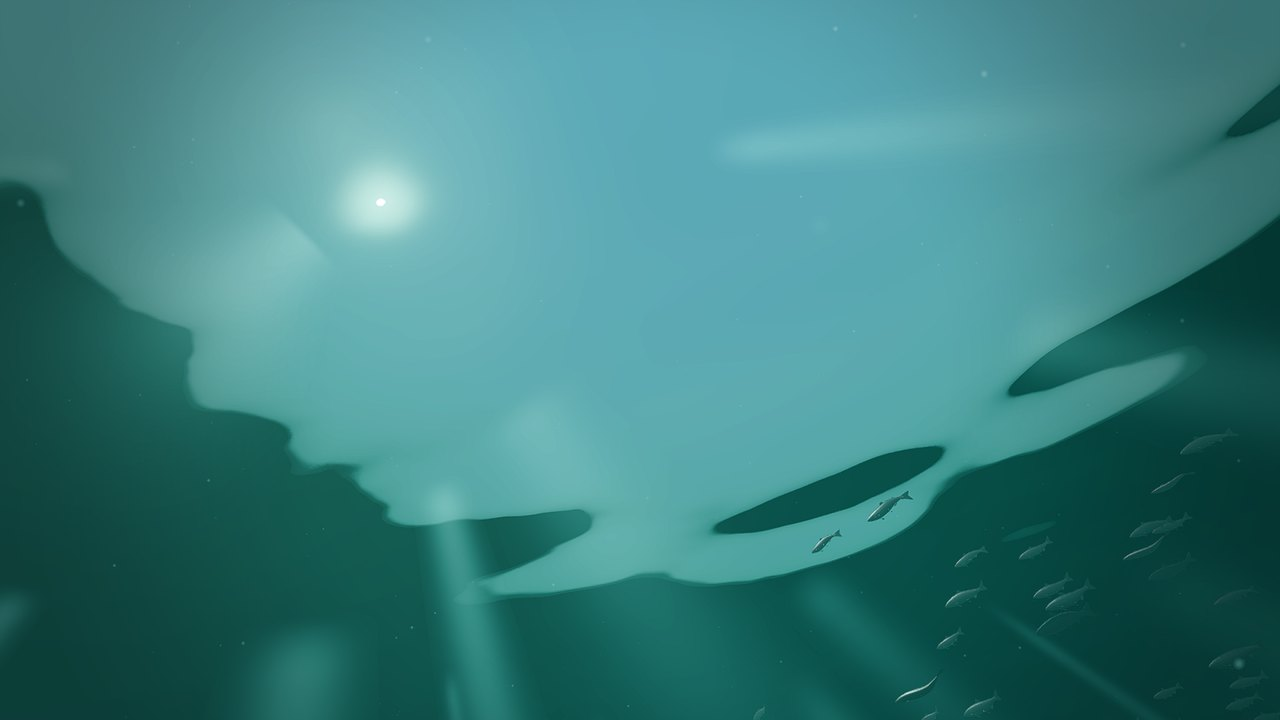
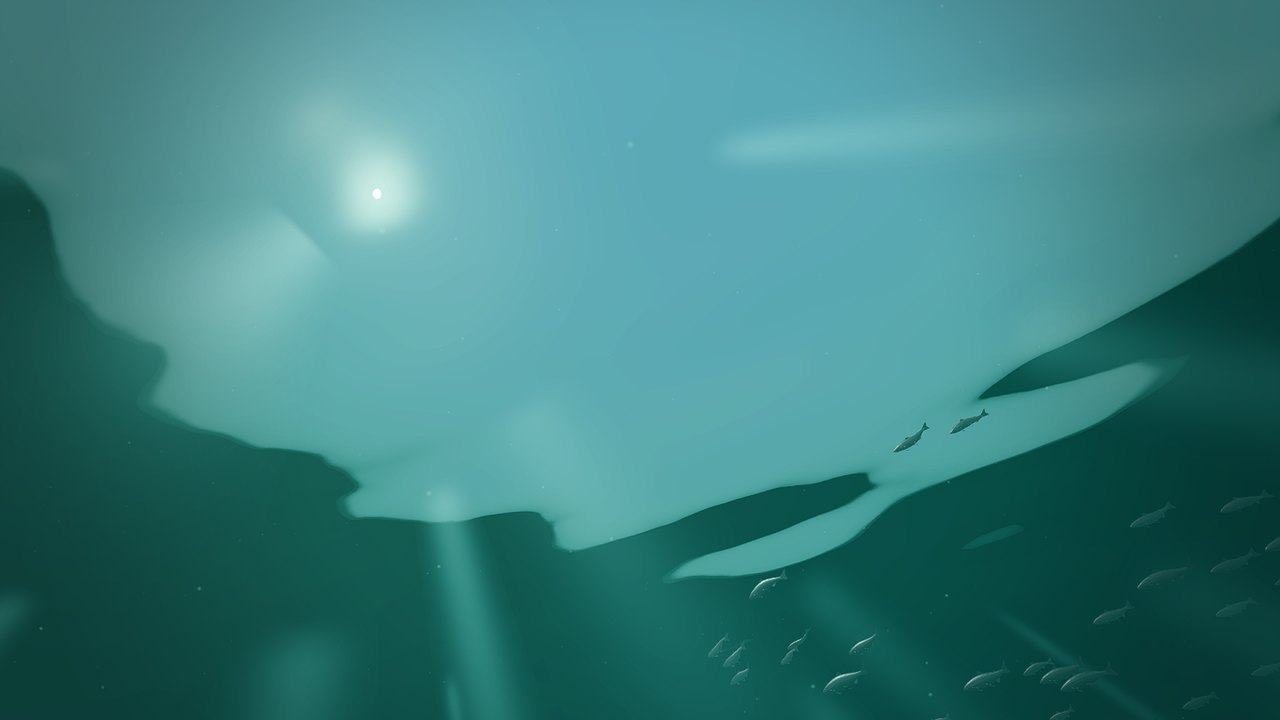
run: wave4b G3-04 the caustics' motion measured frozen — the clean net's shimmer 0.0039, the fouled net's 0.0086, held off 0
- EnvironmentDirector.stage_caustic_clock: the harness holds the caustics'
  clock at a time. UnderwaterShots measures the net in one freeze: the net's
  mask, the fouling, and 0.5 s on the caustics' clock on the clean net, held
  off and on the fully fouled net (bars 0.002 / 0.0005 / 0.005).
- Why: the first measurement (two real-time frames 0.5 s apart, 0.020
  against 0.005 in d2d7ee6's message) caught the scene catching up after
  the frozen mask frames (a later real-time pair in the same run: 0.006) and
  failed after the farm shot (0.009 against 0.009); with time running the
  floating pen also leaves the mask taken before. Frozen, every run reads the
  clean net 0.0039 (threads of 1.6 % albedo: p99 4 levels), the fouled net
  0.0086 (p99 8), held off 0.0000.
- Mutation: the net shader without its caustics' emission fails 11d (0.0000).
- UnderwaterChecks' staging check also holds the clock (stronger in place).
- Gates on this tree: UI flow 1825 / 0 (load 8-12), pytest 878 / 1 skipped,
  validate_scenes 84 clean; no C# change since 023154e (builds, dotnet test
  and the golden traces there: 27/27 identical).
- Evidence regenerated from a --only=fjord_farm,underwater run (the order
  that had failed): docs/run/evidence/g3_04/, its report, the corrected
  numbers in README, FJORD_RENDERER and RUN_LOG §7.

diff --git a/docs/RUN_LOG.md b/docs/RUN_LOG.md
@@ -589,7 +589,8 @@ deliverable, message format: `run: <wave> <item> — <one-line outcome>`.
 | 2026-10-21 | G3-04 the fouling reaches the nets in steps of 0.05 and through nets found once (`FarmSite.FOULING_STEP`, `PenCage._nets()`) | Measured, the UI side of a 30× day (UiFlowTests' check run alone, A/B in one time window): every day's write cost 1.0 ms p50 (4.13-4.16 against 3.06-3.19 ms with the per-day additions off); stepped and cached the additions cost 44 µs a day (3.02 ms p50). The full suite's run under load 8-15 had failed that check (p95 39.0 > 28.1 ms) | Yes |
 | 2026-10-21 | G3-04 camera: the UNDERWATER zoom dives into the pen within 120 m of the focus (`UnderwaterView.dive_anchor` → `FjordCamera.underwater_anchor`), 5 m down, 0.72 of the net's radius out (18 m of 24.95), looking 45° off the pen's centre and 16° up, 64° field; the dive hovers 7 m over its place, then goes straight down looking down; Q/E turn it round the pen, the up/down keys tilt it (±60°). The framing was tried at 0.55/28° (fish only), 0.84/62° (empty water) and 0.72/72°, 55° before 45° | The school, the net's ropes and Snell's window in one calm frame | Yes |
 | 2026-10-21 | G3-04 shots: 11 (the first stocked pen, noon, clear), 11c (45° up), 11b (a QA bloom of 0.8), 11d (2.6 m from the net at 4 m, facing away from the sun) and 11e (11d fouled), checked by `UnderwaterShots.gd` (depth, the window over the TIR ring, the bloom's fog, fish, the caustics' motion against a twin with them held off, the fouling) with a JSON report. 11d faces away from the sun: the sun-side wall lies in the collar's and the walkway's shadow down to ~5 m at noon (switching every shadow caster off lit the threads from 0.188 to 0.220) | The net shot must show the net in the sun its caustics come from | Yes |
-| 2026-10-21 | **G3-04 tests and gates** (add-only, nothing replaced): xUnit +10 (`WaterClarityTests`); UiFlowTests +31 (`UnderwaterChecks.gd`; `MIN_CHECKS` 1794 → 1825); pytest +6 (`tests/test_underwater.py`) and the single-writer lists of `test_environment_director.py` extended. Mutation runs: UiFlow 9 mutations in two runs + the fouling step (each fails its check), pytest 7 (each fails its test). Gates on `023154e`: builds 0 errors (53 / 16 warnings); `dotnet test` LakskongenSim.Tests 2014 passed / 3 skipped / 0 failed and the other projects green; pytest 878 passed / 1 skipped; validate_scenes 84 scenes clean; UI flow 1825 checks / 0 failures (load 6-15); golden traces 27 / 27 identical against the merge base `77e4d1d` (`docs/run/evidence/g3_04_golden_diff.md`); the harness's `--only=underwater` content checks pass (`docs/run/evidence/g3_04/`) | The gate contract | — |
+| 2026-10-21 | G3-04 correction: 11d's caustic check is measured with time stopped (`EnvironmentDirector.stage_caustic_clock`: 0.5 s on the caustics' clock; the net's mask, the clean, held-off and fouled pairs in one freeze). The first version (real-time frames 0.5 s apart, `d2d7ee6`'s message: 0.020 against 0.005) measured the scene catching up after the frozen mask frames (a later real-time pair in the same run read 0.006) and failed after the farm shot (0.009 against 0.009); with time running the floating pen also leaves the mask taken before. Frozen: the clean net 0.0039 (its threads' albedo is 1.6 %: p99 4 levels of 255), the fouled net 0.0086 (p99 8), held off 0.0000, the same in every run; bars 0.002 / 0.005 / 0.0005 | A measurement the frame pacing and the waves cannot move; the clean, dark net's shimmer is stated as the faint one it is | Yes |
+| 2026-10-21 | **G3-04 tests and gates** (add-only, nothing replaced): xUnit +10 (`WaterClarityTests`); UiFlowTests +31 (`UnderwaterChecks.gd`; `MIN_CHECKS` 1794 → 1825); pytest +6 (`tests/test_underwater.py`) and the single-writer lists of `test_environment_director.py` extended. Mutation runs: UiFlow 9 mutations in two runs + the fouling step (each fails its check), pytest 7 (each fails its test), the harness's 11d check against a net shader without its caustics (fails: 0.0000). Gates on `023154e`: builds 0 errors (53 / 16 warnings); `dotnet test` LakskongenSim.Tests 2014 passed / 3 skipped / 0 failed and the other projects green; pytest 878 passed / 1 skipped; validate_scenes 84 scenes clean; UI flow 1825 checks / 0 failures (load 6-15); golden traces 27 / 27 identical against the merge base `77e4d1d` (`docs/run/evidence/g3_04_golden_diff.md`); the harness's `--only=underwater` content checks pass (`docs/run/evidence/g3_04/`) | The gate contract | — |
 
 ## 8. Blocked / dead ends / disputes
 

diff --git a/docs/run/evidence/g3_04/README.md b/docs/run/evidence/g3_04/README.md
@@ -8,13 +8,13 @@ content checks passed (`"failures": []`).
 | Frame | What it shows |
 |---|---|
 | `g3_04_sheet.jpg` | The old 11 (a blue overlay over a net) against the five new frames |
-| `11_fjord_underwater.jpg` | 5.0 m down, 17.96 m from the pen's centre (net 24.95 m): Snell's window at the top, shafts, snow, the school (3.0 % of the frame), the net's ropes |
-| `11c_underwater_window.jpg` | Tilted 45° up: the window 2.38× as bright as the surface outside it (TIR ring rgb 0.056, 0.303, 0.279: the water's own tint), the sun and its glow, a cloud through the window |
+| `11_fjord_underwater.jpg` | 5.0 m down, 17.96 m from the pen's centre (net 24.95 m): Snell's window at the top, shafts, snow, the school (3.3 % of the frame), the net's ropes |
+| `11c_underwater_window.jpg` | Tilted 45° up: the window 2.42× as bright as the surface outside it (TIR ring rgb 0.054, 0.299, 0.275: the water's own tint), the sun and its glow, a cloud through the window |
 | `11b_underwater_bloom.jpg` | A QA bloom of 0.8 at the site: 2.35 m water (fog 0.839 /m against the clear 11.53 m, 0.269 /m), olive-green |
 | `11d_underwater_net.jpg` | 2.6 m from the net at 4 m, the sun behind the camera: the net, the shafts converging below |
 | `11e_underwater_net_fouled.jpg` | 11d with the site's nets fully fouled (41 % of the frame changes) |
 | `11e_fouling_crop.jpg` | The same 640 x 360 crop of 11d and 11e at 1:1: ragged olive growth closing the mesh |
-| `11d_caustics_motion.jpg` | The net with the fish, shafts and snow held off; |dL| × 10 over 0.5 s with the caustics (mean 0.0205 over the net's pixels) and held off (0.0050) |
+| `11d_caustics_motion.jpg` | Time stopped, the fish, shafts and snow held off: the net; |dL| × 10 for 0.5 s on the caustics' clock on the clean net (mean 0.0039 over the net's pixels), on the fouled net (0.0086) and with the caustics held off (0) |
 | `11_before.jpg`, `11_wip_first_light.jpg` | The base's 11; the first light of the new composition (earlier commit) |
 
 ## The checks (UnderwaterShots.gd)
@@ -22,11 +22,18 @@ content checks passed (`"failures": []`).
 | Check | Bar | Measured |
 |---|---|---|
 | 11: the camera 3-8 m down inside the net | depth 3-8, < 24.95 m from the centre | 5.0 m, 17.96 m |
-| 11c: Snell's window over the TIR ring, tinted | ≥ 1.8×, green over red | 2.38×, g 0.303 > r 0.056 |
+| 11c: Snell's window over the TIR ring, tinted | ≥ 1.8×, green over red | 2.42× (2.38 in earlier runs), g 0.299 > r 0.054 |
 | 11b: the bloom's fog over the clear water's | shorter visibility, denser fog | 2.35 m / 0.839 against 11.53 m / 0.269 |
-| 11: fish | ≥ 1 % of the frame | 2.97 % |
-| 11d: the caustics animate on the net | ≥ 0.004 and ≥ 2× the twin's | 0.0205 against 0.0050 (4.1×; earlier runs 0.0202/0.0053, 0.0207/0.0044) |
-| 11e: the fouling uniform reads | ≥ 10 % of the frame | 40.8 % |
+| 11: fish | ≥ 1 % of the frame | 3.31 % (2.97-3.29 in earlier runs) |
+| 11d: the caustics animate on the net (time stopped, 0.5 s on their clock) | clean ≥ 0.002, fouled ≥ 0.005, held off ≤ 0.0005 | clean 0.0039 (p99 4.2, max 12 levels on 18 % of the frame), fouled 0.0086 (p99 8.2, max 30 on 32 %), held off 0.0000; the same in three runs |
+| 11e: the fouling uniform reads | ≥ 10 % of the frame | 40.9 % |
+
+The first version measured two real-time frames 0.5 s apart against a twin
+taken later: 0.020 against 0.005. That was an artifact: the pair came right
+after the frozen mask frames and caught the scene catching up (a real-time
+pair later in the same run read 0.006); in another run, with the farm shot
+before it, it failed (0.009 against 0.009). Measured frozen, the caustics'
+own motion on the clean, dark net is the faint shimmer above.
 
 ## Cost (`perf_uw.md`)
 
@@ -57,6 +64,8 @@ writes in 74 days of the po3 game).
   their one writer, the caustics' loop rebuilt byte for byte, the caustics
   without a second 1/π, a fully fouled tile's coverage against the shader's
   constant). Seven mutations, each caught by its test.
+- The harness's 11d check against a net shader without its caustics'
+  emission: it fails (0.0000 clean, fouled and held off).
 - `tests/test_environment_director.py`: the single-writer lists take the
   underwater sky's and the underside's uniforms.
 - `src/LakskongenSim.Tests/Environment/WaterClarityTests.cs`: 10 xUnit tests.

diff --git a/docs/FJORD_RENDERER.md b/docs/FJORD_RENDERER.md
@@ -960,7 +960,7 @@ totally reflected outside 48.6 degrees (the water's own light below: the
 window's tinted ring), mixed by Fresnel taken on the air side, foam lighter,
 the water between dimming it at 0.45 of the fog's attenuation (a bright
 source keeps its shape through forward scattering). 11c measures the window
-at 2.38× the surface outside it, the TIR ring green over red.
+at 2.38-2.42× the surface outside it, the TIR ring green over red.
 
 **On the net, the collar and the fish** (`shaders/include/underwater_light.gdshaderinc`,
 globals `lk_uw*` in `project.godot`, written only by the director):
@@ -976,9 +976,11 @@ periodic field of short waves (|k| 2-11 a tile, RMS slope 0.075) and bins
 them on a plane 0.9 tiles down, 32 frames of 256², a 9 s loop, seamless in
 space and time (every wave turns whole cycles), texel = I / 4 (mean 1). The
 net's threads take the sun on their tops under water (the normal tilted 0.7
-toward up; above water unchanged). 11d holds the caustics' motion on the net
-against a twin with them held off (mean |dL| 0.020 against 0.004-0.005 in
-0.5 s).
+toward up; above water unchanged). With time stopped, 0.5 s on the
+caustics' clock moves the clean net's pixels by mean |dL| 0.0039 (its
+threads' albedo is 1.6 %: a faint shimmer, p99 4 and at most 12 levels of
+255 on 18 % of the frame), the fouled net's by 0.0086 (p99 8, at most 30
+levels), nothing with them held off.
 
 **Fouling.** `pen_net_shader`'s `net_fouling` instance uniform is the site's
 net condition from the sim (`FarmSite.net_fouling_for`: `net_integrity` 100
@@ -1006,7 +1008,7 @@ crosses the surface; it reads no screen texture.
 
 **The fish** under water show within 5 optical depths of the fog plus the
 school's ring (`FishSchool.underwater_reach_m`, 40 m in 11's water): the
-schools beyond it are not drawn. 11's school changes 3.0 % of the frame.
+schools beyond it are not drawn. 11's school changes 3.0-3.3 % of the frame.
 
 **The shots** (`--only=underwater`, `UnderwaterShots.gd`, a JSON report
 `11_underwater.json`): 11 (noon, clear, the first stocked pen), 11c (tilted
@@ -1014,9 +1016,11 @@ schools beyond it are not drawn. 11's school changes 3.0 % of the frame.
 at 4 m, facing away from the sun: the sun-side wall lies in the collar's and
 walkway's shadow down to ~5 m at noon) and 11e (11d fouled). The checks: 11
 at 3-8 m inside the net; the window over the TIR ring (≥ 1.8×, tinted); the
-bloom's fog over the clear water's; fish ≥ 1 %; the caustics' motion ≥ 0.004
-and ≥ 2× the twin's; the fouling ≥ 10 % of the frame. The caustics' frame
-pairs go to `screenshots/game/underwater_motion/`.
+bloom's fog over the clear water's; fish ≥ 1 %; with time stopped (the
+floating pen stays where the net's mask was taken, and a run's frame pacing
+cannot move it) 0.5 s on the caustics' clock moves the clean net ≥ 0.002,
+the fouled net ≥ 0.005 and, held off, ≤ 0.0005; the fouling ≥ 10 % of the
+frame. The caustics' frame pairs go to `screenshots/game/underwater_motion/`.
 
 Cost (`tools/perf_smoke.sh --segments=farm,underwater`, the new
 `underwater` segment run only when named; 2560×1440 High, M1 Pro, load 9-14,
